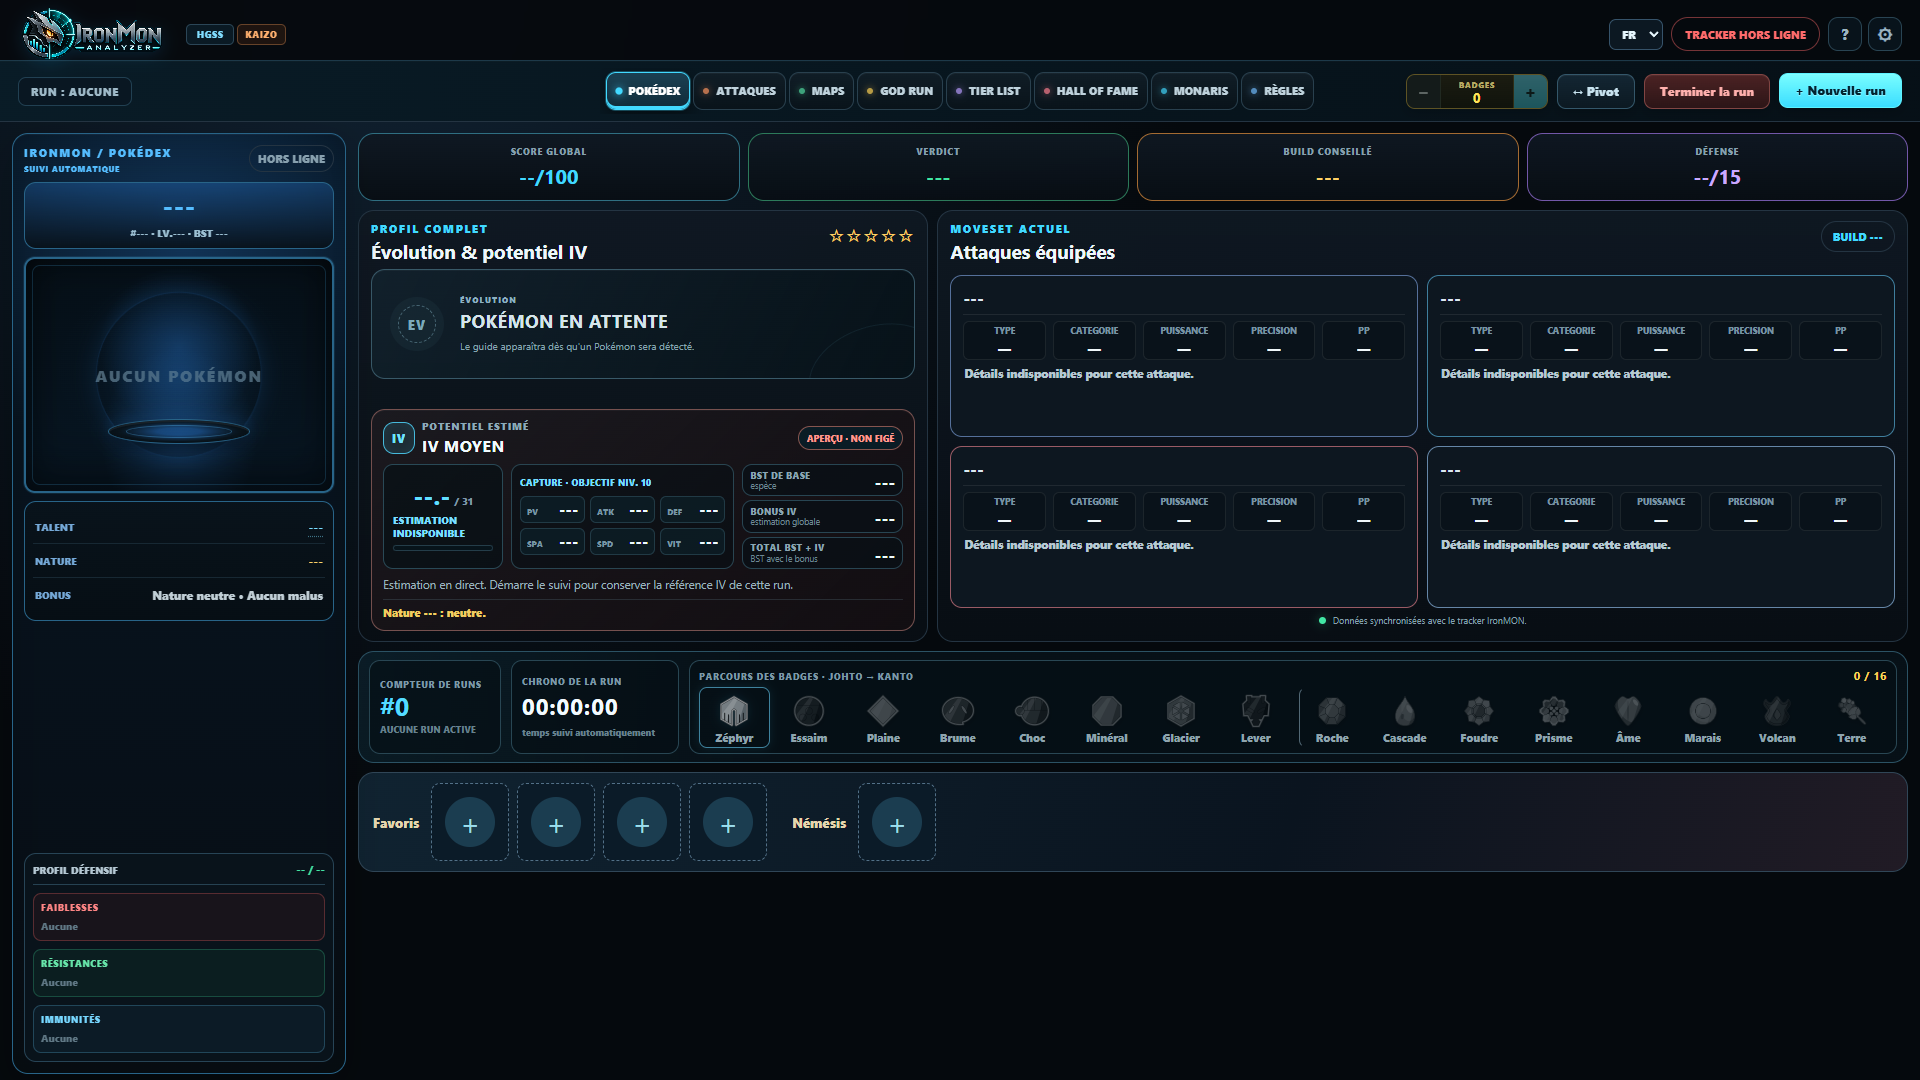
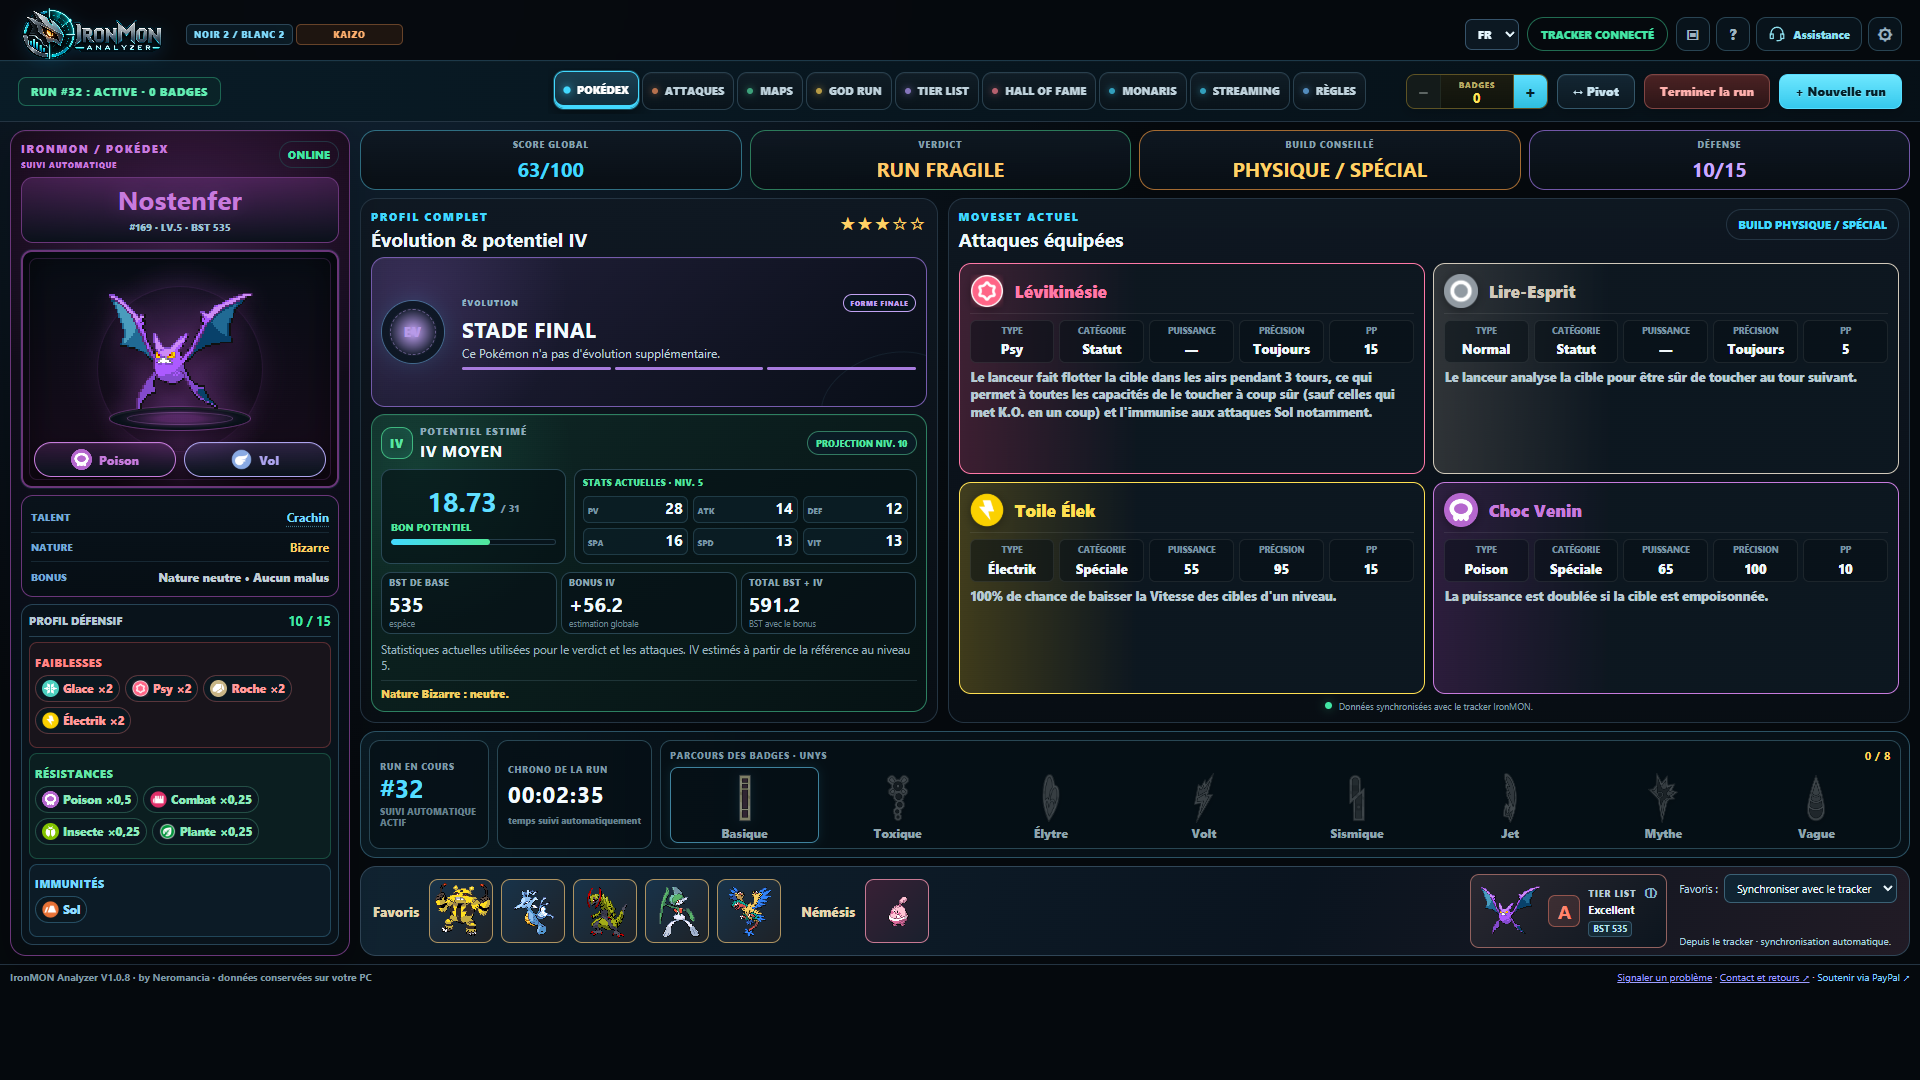
docs: montrer une run active, les attaques et la tier list

diff --git a/README.en.md b/README.en.md
@@ -28,7 +28,17 @@ Version 1.0.8 repairs the tracked Pokémon when resuming a run if the pivot file
 - **OBS streaming**: a scene template or separate blocks, customization and a preview before saving.
 - **An interface that fits your play**: French and English, a reduced layout and a getting-started tutorial.
 
-![IronMON Analyzer before starting a run, shown in French](images/interface.png)
+### Pokédex — a live run
+
+![Pokédex tracking Crobat live, interface shown in French](images/interface.png)
+
+### Moves — compare before choosing
+
+![Moveset simulator and advisor with Crobat, shown in French](images/attaques.png)
+
+### Tier List — your personal rankings
+
+![Personal Black 2 / White 2 Tier List with the current Pokémon, shown in French](images/tier-list.png)
 
 ## Games and installation
 

diff --git a/README.md b/README.md
@@ -28,7 +28,17 @@ La 1.0.8 corrige le Pokémon suivi à la reprise d’une run lorsque le fichier 
 - **Streaming OBS** : modèle de scène ou blocs séparés, personnalisation et aperçu avant enregistrement.
 - **Confort d’utilisation** : interface en français et en anglais, mode réduit et tutoriel de prise en main.
 
-![Interface IronMON Analyzer avant le lancement d’une run](images/interface.png)
+### Pokédex — une run en cours
+
+![Pokédex avec Nostenfer suivi en direct](images/interface.png)
+
+### Attaques — comparer avant de choisir
+
+![Simulateur et conseiller d’attaques avec Nostenfer](images/attaques.png)
+
+### Tier List — votre classement personnel
+
+![Tier List personnelle de Noir 2 / Blanc 2 avec le Pokémon de la run](images/tier-list.png)
 
 ## Jeux et installation
 
